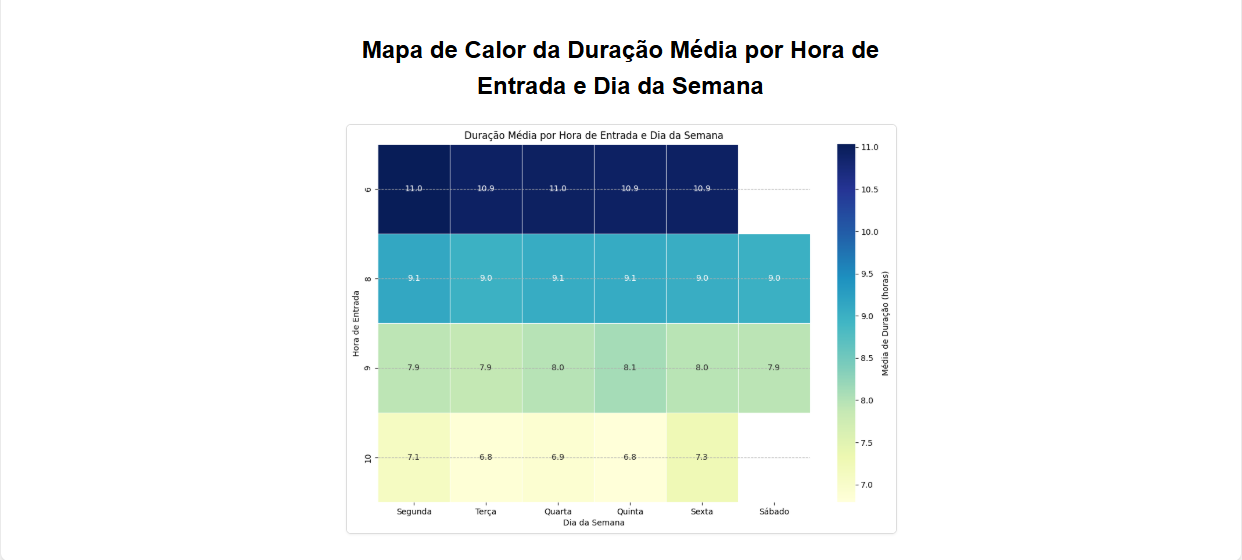
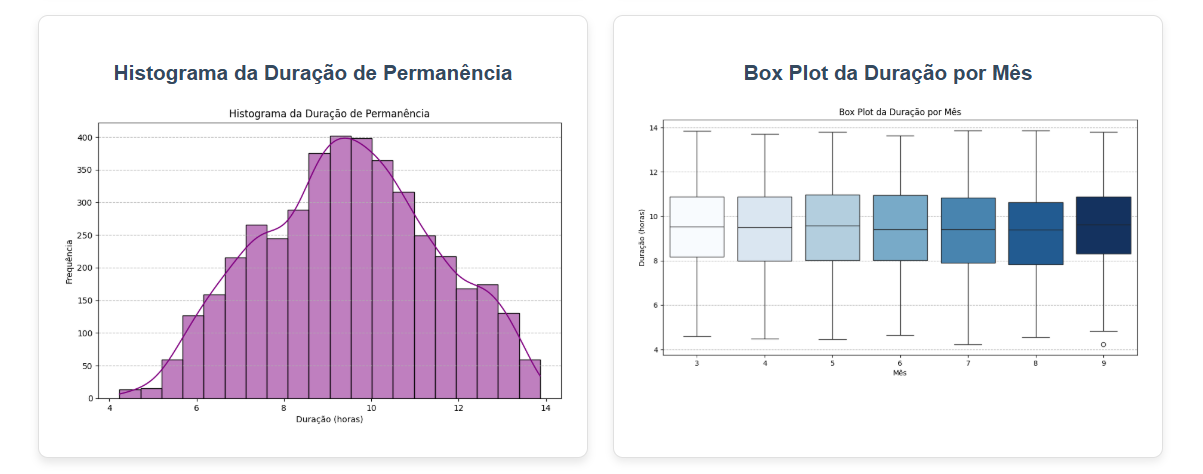
Atualizacao README e imagens

diff --git a/README.md b/README.md
@@ -109,11 +109,17 @@ Este é o template HTML que constrói a interface do usuário do dashboard.
 
 Abaixo, algumas imagens dos gráficos gerados pelo aplicativo:
 
-*Gráfico 1: Média de Duração por Dia da Semana*
+*Início de dashboard e KPIs*
 ![resultado](imagens/resultados_1.png)
 
-*Gráfico 2: Média de Duração Geral e Histograma da Duração de Permanência*
+*Gráficos 1, 2: Média de Duração por Dia da Semana e Média de Duração Geral*
 ![resultado](imagens/resultados_2.png)
 
-*Gráfico 3: Box Plot da Duração por Mês e Mapa de Calor da Duração Média*
+*Gráficos 3, 4: Histograma da Duração de Permanência e Box Plot da Duração por Mês*
 ![resultado](imagens/resultados_3.png)
+
+*Gráfico 5: Mapa de Calor da Duração Média*
+![resultado](imagens/resultados_4.png)
+
+*Gráficos 6: Gráfico de Setores de Status de Pagamento dos Mensalistas*
+![resultado](imagens/resultados_5.png)
